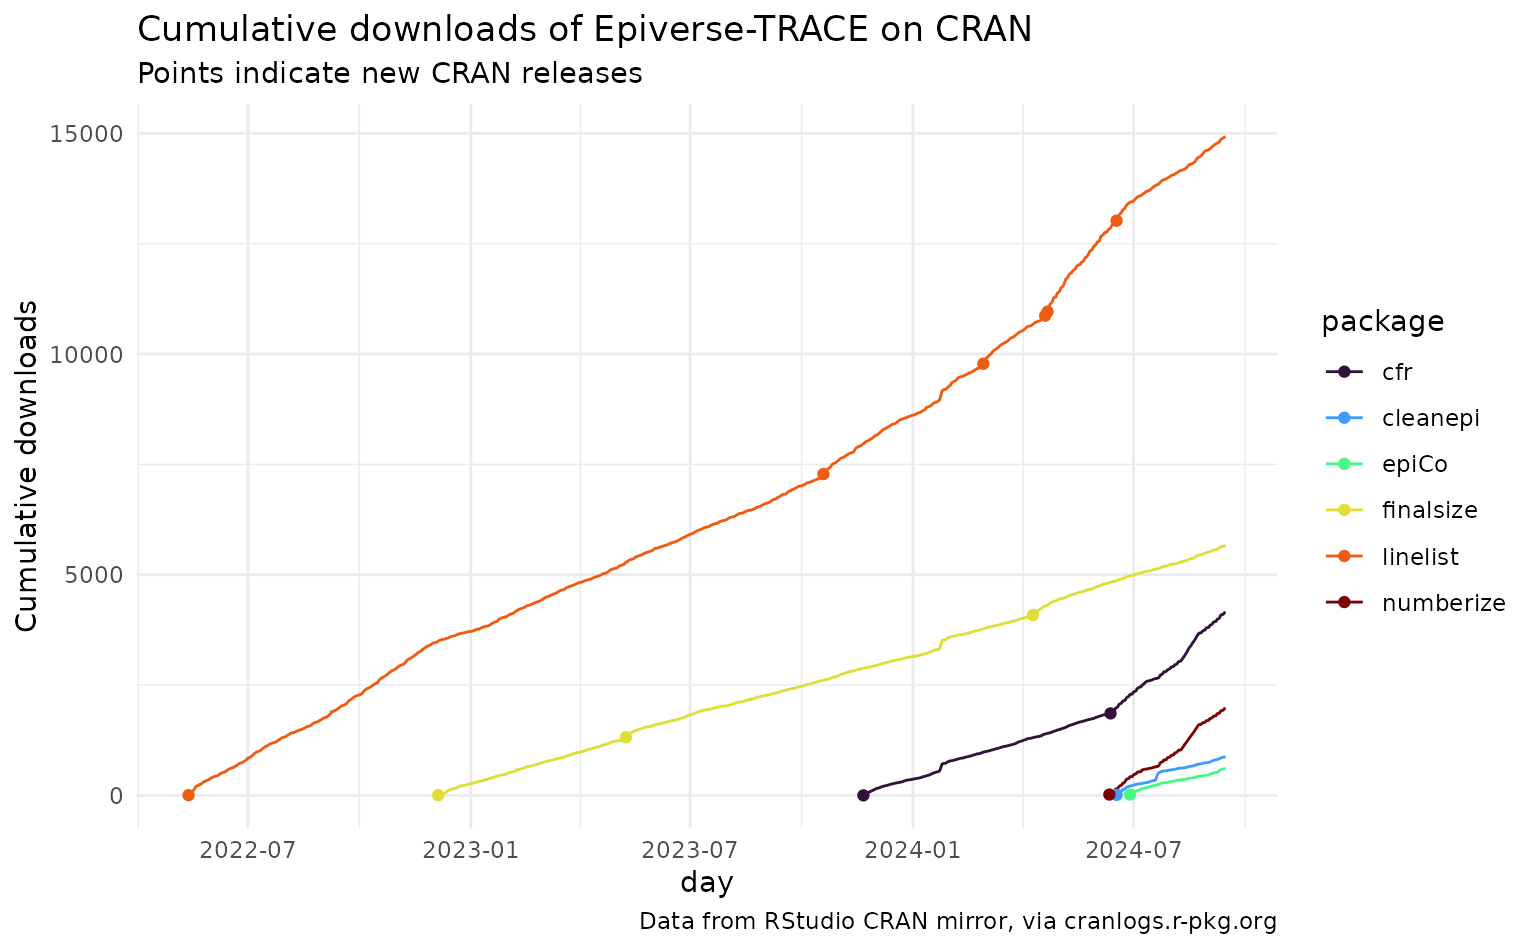
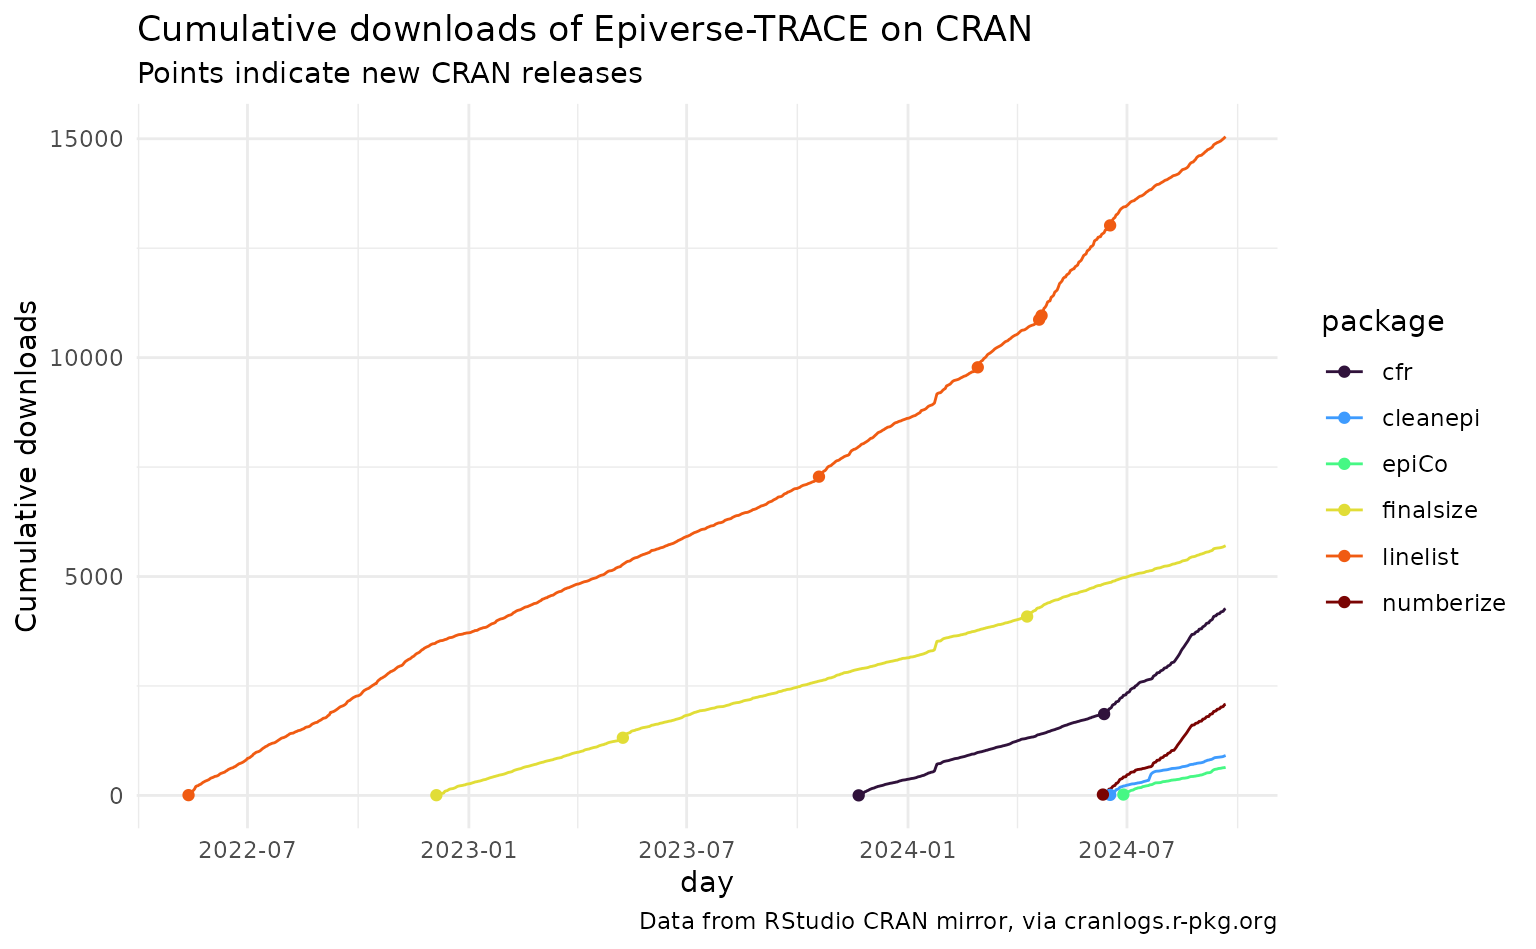
Deploying to gh-pages from @ epiverse-trace/etstats@26d162aa91b843a6b10dc372730888aa1f500007 🚀

diff --git a/articles/cran-statistics.html b/articles/cran-statistics.html
@@ -74,7 +74,7 @@
 
       <h1>CRAN statistics</h1>
             
-            <h4 data-toc-skip class="date">2024-09-17</h4>
+            <h4 data-toc-skip class="date">2024-09-23</h4>
       
       <small class="dont-index">Source: <a href="https://github.com/epiverse-trace/etstats/blob/main/vignettes/cran-statistics.Rmd" class="external-link"><code>vignettes/cran-statistics.Rmd</code></a></small>
       <div class="d-none name"><code>cran-statistics.Rmd</code></div>
@@ -91,7 +91,7 @@
 <li><a href="https://cran.r-project.org/package=linelist" class="external-link">linelist</a></li>
 <li><a href="https://cran.r-project.org/package=finalsize" class="external-link">finalsize</a></li>
 </ul>
-<p>In total, Epiverse-TRACE packages on CRAN have been downloaded 28179
+<p>In total, Epiverse-TRACE packages on CRAN have been downloaded 28649
 times.</p>
 <p>Below is a visualization of the breakdown of this grand total by
 package over time.</p>
@@ -108,43 +108,43 @@ package over time.</p>
 <td align="left">finalsize</td>
 <td align="right">260</td>
 <td align="right">2881</td>
-<td align="right">2512</td>
+<td align="right">2562</td>
 </tr>
 <tr class="even">
 <td align="left">linelist</td>
 <td align="right">3712</td>
 <td align="right">4898</td>
-<td align="right">6312</td>
+<td align="right">6435</td>
 </tr>
 <tr class="odd">
 <td align="left">cfr</td>
 <td align="right">NA</td>
 <td align="right">364</td>
-<td align="right">3783</td>
+<td align="right">3901</td>
 </tr>
 <tr class="even">
 <td align="left">cleanepi</td>
 <td align="right">NA</td>
 <td align="right">NA</td>
-<td align="right">872</td>
+<td align="right">911</td>
 </tr>
 <tr class="odd">
 <td align="left">epiCo</td>
 <td align="right">NA</td>
 <td align="right">NA</td>
-<td align="right">614</td>
+<td align="right">642</td>
 </tr>
 <tr class="even">
 <td align="left">numberize</td>
 <td align="right">NA</td>
 <td align="right">NA</td>
-<td align="right">1971</td>
+<td align="right">2083</td>
 </tr>
 <tr class="odd">
 <td align="left">Total</td>
 <td align="right">3972</td>
 <td align="right">8143</td>
-<td align="right">16064</td>
+<td align="right">16534</td>
 </tr>
 </tbody>
 </table></main>
@@ -157,7 +157,7 @@ package over time.</p>
 </div>
 
 <div class="pkgdown-footer-right">
-  <p>Site built with <a href="https://pkgdown.r-lib.org/" class="external-link">pkgdown</a> 2.1.0.</p>
+  <p>Site built with <a href="https://pkgdown.r-lib.org/" class="external-link">pkgdown</a> 2.1.1.</p>
 </div>
 
     </footer>

diff --git a/articles/github-statistics.html b/articles/github-statistics.html
@@ -74,7 +74,7 @@
 
       <h1>GitHub statistics</h1>
             
-            <h4 data-toc-skip class="date">2024-09-17</h4>
+            <h4 data-toc-skip class="date">2024-09-23</h4>
       
       <small class="dont-index">Source: <a href="https://github.com/epiverse-trace/etstats/blob/main/vignettes/github-statistics.Rmd" class="external-link"><code>vignettes/github-statistics.Rmd</code></a></small>
       <div class="d-none name"><code>github-statistics.Rmd</code></div>
@@ -94,7 +94,7 @@ followers.</p>
 <div class="section level3">
 <h3 id="totals">Totals<a class="anchor" aria-label="anchor" href="#totals"></a>
 </h3>
-<p>In total, we have 199 stars across all Epiverse-TRACE packages. These
+<p>In total, we have 200 stars across all Epiverse-TRACE packages. These
 stars come from 120 unique users.</p>
 <p><img src="github-statistics_files/figure-html/unnamed-chunk-5-1.png" width="768"></p>
 </div>
@@ -180,7 +180,7 @@ stars come from 120 unique users.</p>
 <td align="left">epichains</td>
 <td align="right">0</td>
 <td align="right">1</td>
-<td align="right">4</td>
+<td align="right">5</td>
 </tr>
 <tr class="odd">
 <td align="left">epidemics</td>
@@ -264,7 +264,7 @@ stars come from 120 unique users.</p>
 <td align="left">Total</td>
 <td align="right">24</td>
 <td align="right">89</td>
-<td align="right">86</td>
+<td align="right">87</td>
 </tr>
 </tbody>
 </table>
@@ -281,7 +281,7 @@ stars come from 120 unique users.</p>
 </div>
 
 <div class="pkgdown-footer-right">
-  <p>Site built with <a href="https://pkgdown.r-lib.org/" class="external-link">pkgdown</a> 2.1.0.</p>
+  <p>Site built with <a href="https://pkgdown.r-lib.org/" class="external-link">pkgdown</a> 2.1.1.</p>
 </div>
 
     </footer>

diff --git a/pkgdown.js b/pkgdown.js
@@ -152,3 +152,11 @@ async function searchFuse(query, callback) {
   });
   });
 })(window.jQuery || window.$)
+
+document.addEventListener('keydown', function(event) {
+  // Check if the pressed key is '/'
+  if (event.key === '/') {
+    event.preventDefault();  // Prevent any default action associated with the '/' key
+    document.getElementById('search-input').focus();  // Set focus to the search input
+  }
+});

diff --git a/authors.html b/authors.html
@@ -83,7 +83,7 @@ R package version 0.0.0.9000, <a href="https://github.com/epiverse-trace/etstats
 </div>
 
 <div class="pkgdown-footer-right">
-  <p>Site built with <a href="https://pkgdown.r-lib.org/" class="external-link">pkgdown</a> 2.1.0.</p>
+  <p>Site built with <a href="https://pkgdown.r-lib.org/" class="external-link">pkgdown</a> 2.1.1.</p>
 </div>
 
     </footer></div>

diff --git a/404.html b/404.html
@@ -83,7 +83,7 @@ Content not found. Please use links in the navbar.
 </div>
 
 <div class="pkgdown-footer-right">
-  <p>Site built with <a href="https://pkgdown.r-lib.org/" class="external-link">pkgdown</a> 2.1.0.</p>
+  <p>Site built with <a href="https://pkgdown.r-lib.org/" class="external-link">pkgdown</a> 2.1.1.</p>
 </div>
 
     </footer>

diff --git a/articles/citations.html b/articles/citations.html
@@ -240,7 +240,7 @@ Preprints</em>.
 </div>
 
 <div class="pkgdown-footer-right">
-  <p>Site built with <a href="https://pkgdown.r-lib.org/" class="external-link">pkgdown</a> 2.1.0.</p>
+  <p>Site built with <a href="https://pkgdown.r-lib.org/" class="external-link">pkgdown</a> 2.1.1.</p>
 </div>
 
     </footer>

diff --git a/LICENSE.html b/LICENSE.html
@@ -93,7 +93,7 @@
 </div>
 
 <div class="pkgdown-footer-right">
-  <p>Site built with <a href="https://pkgdown.r-lib.org/" class="external-link">pkgdown</a> 2.1.0.</p>
+  <p>Site built with <a href="https://pkgdown.r-lib.org/" class="external-link">pkgdown</a> 2.1.1.</p>
 </div>
 
     </footer></div>

diff --git a/articles/index.html b/articles/index.html
@@ -67,7 +67,7 @@
 </div>
 
 <div class="pkgdown-footer-right">
-  <p>Site built with <a href="https://pkgdown.r-lib.org/" class="external-link">pkgdown</a> 2.1.0.</p>
+  <p>Site built with <a href="https://pkgdown.r-lib.org/" class="external-link">pkgdown</a> 2.1.1.</p>
 </div>
 
     </footer></div>

diff --git a/reference/index.html b/reference/index.html
@@ -57,7 +57,7 @@
 </div>
 
 <div class="pkgdown-footer-right">
-  <p>Site built with <a href="https://pkgdown.r-lib.org/" class="external-link">pkgdown</a> 2.1.0.</p>
+  <p>Site built with <a href="https://pkgdown.r-lib.org/" class="external-link">pkgdown</a> 2.1.1.</p>
 </div>
 
     </footer></div>

diff --git a/index.html b/index.html
@@ -125,7 +125,7 @@
 </div>
 
 <div class="pkgdown-footer-right">
-  <p>Site built with <a href="https://pkgdown.r-lib.org/" class="external-link">pkgdown</a> 2.1.0.</p>
+  <p>Site built with <a href="https://pkgdown.r-lib.org/" class="external-link">pkgdown</a> 2.1.1.</p>
 </div>
 
     </footer>
